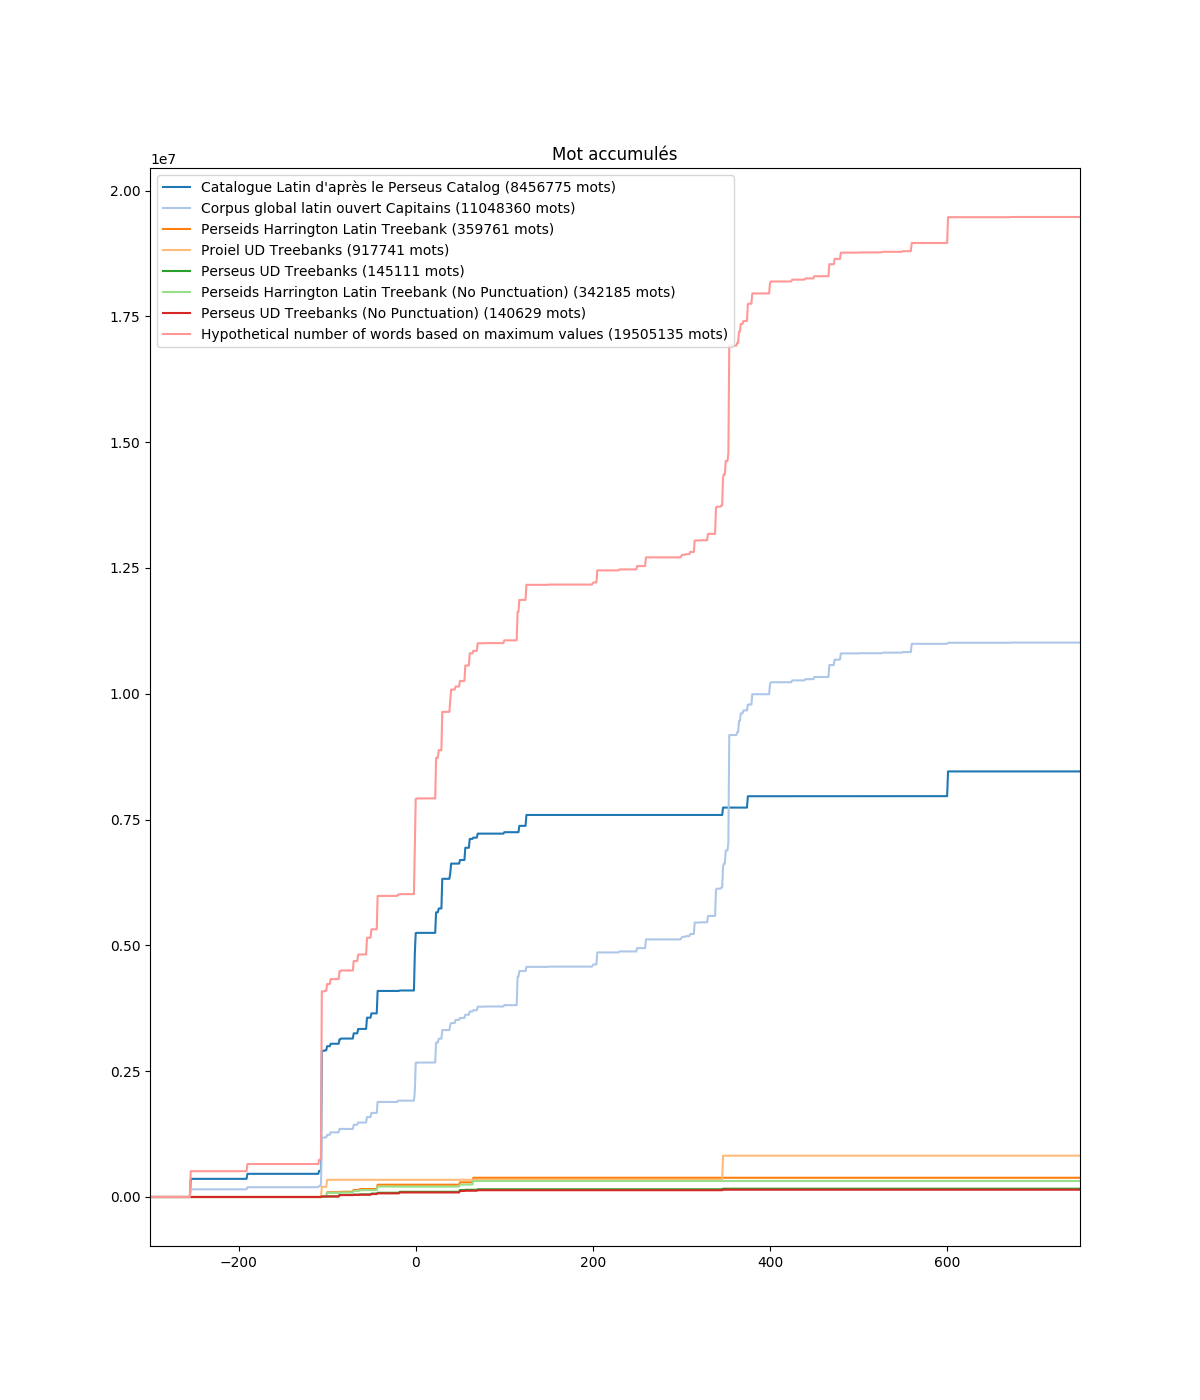
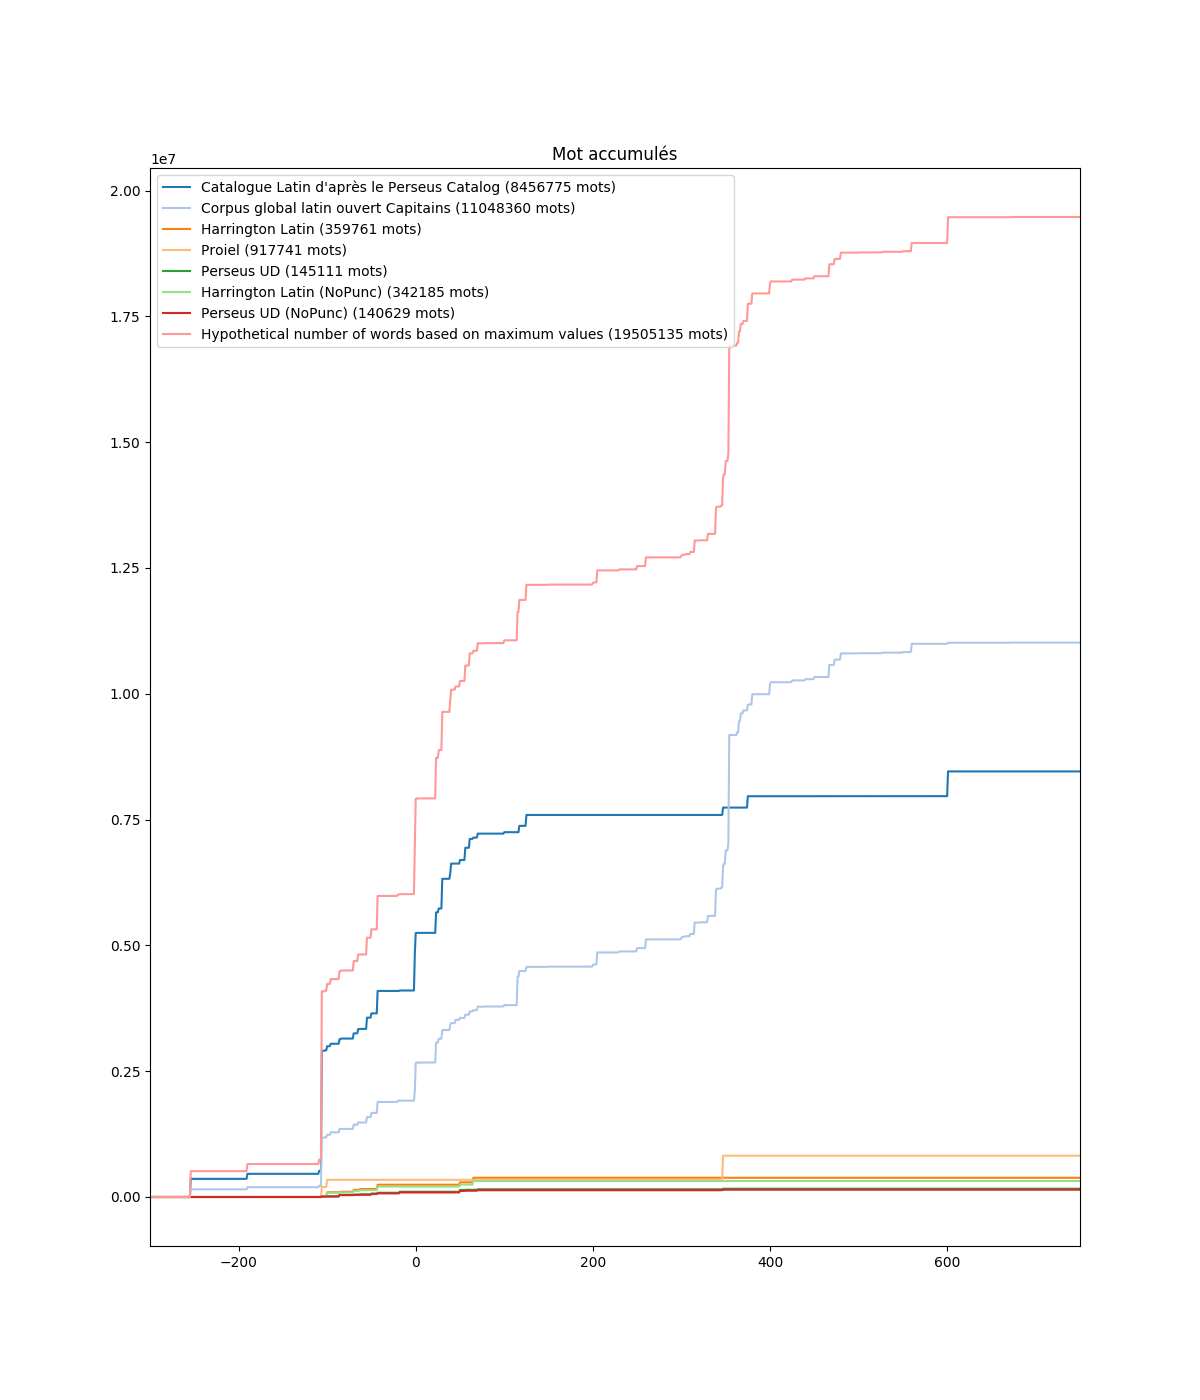
Added distributions plots

Changed region(s): [[0.185, 0.1536, 0.4625, 0.2457], [0.4933, 0.1843, 0.555, 0.215]]

diff --git a/analysis/general_analysis/treebank_analysis.py b/analysis/general_analysis/treebank_analysis.py
@@ -2,7 +2,7 @@ from .corpus_analysis import time_analysis
 import collections
 from helpers.reader.curated import get_graph, get_texts, get_text_length_dict
 from helpers.metadata import wordcounts
-from helpers.treebanks import Corpora, flatten_doc_dict, Filtered_Corpora, doc_token_dict_sum
+from helpers.treebanks import Corpora, flatten_doc_dict, Filtered_Corpora, doc_token_dict_sum, distribution
 import matplotlib.pyplot as plt
 import copy
 import pandas
@@ -17,9 +17,11 @@ def draw_tokens_representation(
         series, fname,
         title="Mots écrits par auteur vivant à une période donnée", template="{corpus} ({words} mots)",
         kind="line",
-        colors_index_offset=0):
+        colors_index_offset=0, plot_kwargs=None, base_fig=None, dimension=(12, 14)):
 
     """ Draw the series in one fig"""
+    if plot_kwargs is None:
+        plot_kwargs = {}
 
     # These are the "Tableau 20" colors as RGB.
     COLORS = [(31, 119, 180), (174, 199, 232), (255, 127, 14), (255, 187, 120),
@@ -33,7 +35,12 @@ def draw_tokens_representation(
         r, g, b = COLORS[i]
         COLORS[i] = r / 255., g / 255., b / 255.
 
-    fig = plt.figure(figsize=(12, 14))
+    fig = base_fig
+    if not fig:
+        if dimension:
+            fig = plt.figure(figsize=dimension)
+        else:
+            fig = plt.figure()
 
     index = 0
     for name, totalWord, serie in series:
@@ -42,7 +49,8 @@ def draw_tokens_representation(
             title=title,
             legend=True,
             label=template.format(corpus=name, words=totalWord),
-            color=COLORS[index]
+            color=COLORS[index],
+            **plot_kwargs
         )
         index += 1
         fig.add_axes(ax)
@@ -51,6 +59,7 @@ def draw_tokens_representation(
     fig.legend(loc='upper center', bbox_to_anchor=(0.5, -0.05), fancybox=True, shadow=True, ncol=5)
 
     plt.savefig(fname)
+    return fig
 
 
 def build_series(graph, texts_dict, wc):
@@ -61,7 +70,7 @@ def build_series(graph, texts_dict, wc):
     :param wc: Word count dictionaries from Perseus catalog (TextId : [WordCount])
     """
 
-    data = [
+    corpus_data = [
         _Serie(
             "Catalogue Latin d'après le Perseus Catalog",
             len(wc),
@@ -76,8 +85,6 @@ def build_series(graph, texts_dict, wc):
         )
     ]
 
-    InitialDataOffset = 2
-
     hypo_dict = copy.deepcopy(wc)
     hypo_dict.update(texts_dict)
 
@@ -88,6 +95,7 @@ def build_series(graph, texts_dict, wc):
         *time_analysis(graph, hypo_dict, draw=False, print_missing=False)
     )
 
+    data = []
     for corpus in Corpora:
         corpus.parse()
         data.append(_Serie(
@@ -102,14 +110,14 @@ def build_series(graph, texts_dict, wc):
 
         cwc = doc_token_dict_sum(corpus.words)
 
-        if cwc != data[index+InitialDataOffset].word_count:
+        if cwc != data[index].word_count:
             filtered.append(_Serie(
                 corpus.name,
                 len(corpus.words),
                 cwc,
                 *time_analysis(graph, corpus.tokens_by_document, False, False))
             )
-    return data, filtered, hypothetical
+    return corpus_data, data, filtered, hypothetical
 
 
 def draw_series_graph(data, hypothetical):
@@ -170,6 +178,51 @@ def draw_corpus_POS():
         fig.savefig("results/analysis/treebank_analysis/treebank_"+corpus.name+"_POS.png")
 
 
+def draw_zipf():
+    """ Draw zipf distributions """
+    forme_fig = draw_tokens_representation([
+        (
+            corpus.name,
+            corpus.diversity["Formes Uniques"],
+            pandas.Series(distribution(corpus.occurence_count[0]))
+        )
+        for corpus in Filtered_Corpora
+    ], fname="results/analysis/treebank_analysis/treebank_distributions.png",
+        template="{corpus} ({words} formes uniques)",
+        title="Distributions des formes",
+        colors_index_offset=2,
+        plot_kwargs={"loglog": True}, dimension=None
+    )
+
+    draw_tokens_representation([
+        (
+            corpus.name,
+            corpus.diversity["Lemmas Uniques"],
+            pandas.Series(distribution(corpus.occurence_count[1]))
+        )
+        for corpus in Filtered_Corpora
+    ], fname="results/analysis/treebank_analysis/treebank_distributions_lemmes_formes.png",
+        template="{corpus} ({words} lemmes uniques)",
+        title="Distributions des lemmes et formes",
+        colors_index_offset=2,
+        plot_kwargs={"loglog": True, "linestyle": "dashed"}, base_fig=forme_fig, dimension=None
+    )
+
+    draw_tokens_representation([
+        (
+            corpus.name,
+            corpus.diversity["Lemmas Uniques"],
+            pandas.Series(distribution(corpus.occurence_count[1]))
+        )
+        for corpus in Filtered_Corpora
+    ], fname="results/analysis/treebank_analysis/treebank_distributions_lemmes.png",
+        template="{corpus} ({words} lemmes uniques)",
+        title="Distributions des lemmes",
+        colors_index_offset=2,
+        plot_kwargs={"loglog": True}, dimension=None
+    )
+
+
 def run(corpora):
     """ Run a generic analysis"""
     graph = get_graph()
@@ -184,15 +237,20 @@ def run(corpora):
     wc = wordcounts.build()
 
     # Build Pandas Series
-    data, filtered_data, hypothetical = build_series(graph, texts_dict, wc)
+    corpus_data, data, filtered_data, hypothetical = build_series(graph, texts_dict, wc)
 
     # Draw graph representation of series
-    draw_series_graph(data+filtered_data, hypothetical)
+    draw_series_graph(corpus_data+data+filtered_data, hypothetical)
 
     # Drawing graphical analysis of each corpus
     draw_corpus_POS()
 
+    # Draw ZIPF distribution analysis
+    draw_zipf()
+
+
     template = "| {:<64} | {:<10} |\n"
+
     for corpus in corpora:
         with open("results/analysis/treebank_analysis/treebank_"+corpus.name+".md", "w") as f:
             f.write(template.format('Documents', 'Tokens'))

diff --git a/helpers/treebanks/__init__.py b/helpers/treebanks/__init__.py
@@ -1,41 +1,41 @@
 from .xml import PerseidsXMLCorpus
 from .conllu import ConlluTreebank
-from .utils import flatten_doc_dict, doc_token_dict_sum
+from .utils import flatten_doc_dict, doc_token_dict_sum, distribution
 
 
 Harrington = PerseidsXMLCorpus(
     "data/raw/treebanks_xml/perseids-project_harrington_trees/harrington_trees-*/CITE_TREEBANK_XML/perseus/lattb/**/*.xml",
-    name="Perseids Harrington Latin Treebank"
+    name="Harrington Latin"
 )
 
 
 Harrington_filtered = PerseidsXMLCorpus(
     "data/raw/treebanks_xml/perseids-project_harrington_trees/harrington_trees-*/CITE_TREEBANK_XML/perseus/lattb/**/*.xml",
-    name="Perseids Harrington Latin Treebank (No Punctuation)",
+    name="Harrington Latin (NoPunc)",
     remove="^\W+$"
 )
 
 
 Proiel = ConlluTreebank(
     "data/raw/treebanks_conllu/UniversalDependencies_UD_Latin-PROIEL/UD_Latin-PROIEL-*/*.conllu",
-    name="Proiel UD Treebanks"
+    name="Proiel"
 )
 
 
 Proiel_filtered = ConlluTreebank(
     "data/raw/treebanks_conllu/UniversalDependencies_UD_Latin-PROIEL/UD_Latin-PROIEL-*/*.conllu",
-    name="Proiel UD Treebanks (No Punctuation)",
+    name="Proiel (NoPunc)",
     remove="^\W+$"
 )
 
 
 Perseus = ConlluTreebank(
     "data/raw/treebanks_conllu/UniversalDependencies_UD_Latin-Perseus/UD_Latin-Perseus-*/*.conllu",
-    name="Perseus UD Treebanks"
+    name="Perseus UD"
 )
 Perseus_filtered = ConlluTreebank(
     "data/raw/treebanks_conllu/UniversalDependencies_UD_Latin-Perseus/UD_Latin-Perseus-*/*.conllu",
-    name="Perseus UD Treebanks (No Punctuation)",
+    name="Perseus UD (NoPunc)",
     remove="^\W+$"
 )
 

diff --git a/helpers/treebanks/base.py b/helpers/treebanks/base.py
@@ -95,6 +95,18 @@ class TreebankCorpus:
         }
 
     @property
+    def occurence_count(self):
+        """ Return an occurence count of forms and lemmas
+
+        :return: Forms distributions, Lemma distributions
+        """
+        return collections.Counter(
+            [word for doc in self.words.values() for word in doc]
+        ), collections.Counter(
+            [word for doc in self.lemmas.values() for word in doc]
+        )
+
+    @property
     def documents_diversity(self):
         return {
             # Statistiques par document

diff --git a/helpers/treebanks/utils.py b/helpers/treebanks/utils.py
@@ -27,3 +27,13 @@ def doc_token_dict_sum(data):
     ])
 
 
+def distribution(occurence):
+    """ Reverse a distribution dict {lemma: occurence count} in a {occurence_count: amount of lemma with occ count}
+
+    :param distribution_dict:
+    :return:
+    """
+    x = collections.Counter()
+    for key, counter in occurence.items():
+        x[counter] += 1
+    return x

diff --git a/results/analysis/treebank_analysis/treebank_Harrington Latin.md b/results/analysis/treebank_analysis/treebank_Harrington Latin.md
@@ -1,13 +1,13 @@
 | Documents                                                        | Tokens     |
 | --                                                               | --         |
-| urn:cts:latinLit:phi1221.phi007.perseus-lat2                     | 2970       |
-| urn:cts:latinLit:phi0690.phi003.perseus-lat2                     | 7307       |
-| urn:cts:latinLit:phi0472.phi001.perseus-lat2                     | 2137       |
 | urn:cts:latinLit:phi0474.phi013.perseus-lat2                     | 1241       |
+| urn:cts:latinLit:phi0690.phi003.perseus-lat2                     | 7307       |
+| urn:cts:latinLit:phi0959.phi001.perseus-lat2                     | 3897       |
+| urn:cts:latinLit:phi0472.phi001.perseus-lat2                     | 2137       |
+| urn:cts:latinLit:phi1276.phi001.perseus-lat2                     | 17265      |
+| urn:cts:latinLit:phi0448.phi001.perseus-lat2                     | 15017      |
+| urn:cts:latinLit:phi0660.phi003.perseus-lat2                     | 313        |
 | urn:cts:latinLit:phi0972.phi001.perseus-lat2                     | 9190       |
 | urn:cts:latinLit:phi0959.phi006.perseus-lat2                     | 13018      |
-| urn:cts:latinLit:phi1276.phi001.perseus-lat2                     | 17265      |
-| urn:cts:latinLit:phi0660.phi003.perseus-lat2                     | 313        |
-| urn:cts:latinLit:phi0959.phi001.perseus-lat2                     | 3897       |
+| urn:cts:latinLit:phi1221.phi007.perseus-lat2                     | 2970       |
 | urn:cts:latinLit:phi0474.phi024.perseus-lat2                     | 1756       |
-| urn:cts:latinLit:phi0448.phi001.perseus-lat2                     | 15017      |

diff --git a/results/analysis/treebank_analysis/treebank_Perseus UD.md b/results/analysis/treebank_analysis/treebank_Perseus UD.md
@@ -1,14 +1,14 @@
 | Documents                                                        | Tokens     |
 | --                                                               | --         |
 | urn:cts:latinLit:phi0690.phi003.perseus-lat2                     | 776        |
-| urn:cts:latinLit:phi1351.phi005.perseus-lat2                     | 866        |
 | urn:cts:latinLit:phi0474.phi013.perseus-lat2                     | 1897       |
+| urn:cts:latinLit:phi0448.phi001.perseus-lat2                     | 352        |
+| urn:cts:greekLit:tlg0031.tlg027.perseus-lat2                     | 2001       |
+| urn:cts:latinLit:phi0631.phi001.perseus-lat2                     | 4999       |
+| urn:cts:latinLit:phi0972.phi001.perseus-lat2                     | 5949       |
+| urn:cts:latinLit:phi1351.phi005.perseus-lat2                     | 866        |
 | urn:cts:latinLit:phi0975.phi001.perseus-lat2                     | 4116       |
+| urn:cts:latinLit:phi0620.phi001.perseus-lat2                     | 2776       |
 | urn:cts:latinLit:phi1221.phi007.perseus-lat2                     | 708        |
 | urn:cts:latinLit:phi0959.phi006.perseus-lat2                     | 2652       |
-| urn:cts:latinLit:phi0448.phi001.perseus-lat2                     | 352        |
 | urn:cts:latinLit:phi1348.abo012.perseus-lat2                     | 2046       |
-| urn:cts:latinLit:phi0620.phi001.perseus-lat2                     | 2776       |
-| urn:cts:greekLit:tlg0031.tlg027.perseus-lat2                     | 2001       |
-| urn:cts:latinLit:phi0972.phi001.perseus-lat2                     | 5949       |
-| urn:cts:latinLit:phi0631.phi001.perseus-lat2                     | 4999       |

diff --git a/results/analysis/treebank_analysis/treebank_Proiel.md b/results/analysis/treebank_analysis/treebank_Proiel.md
@@ -1,5 +1,5 @@
 | Documents                                                        | Tokens     |
 | --                                                               | --         |
-| urn:cts:greekLit:tlg0031.tlg001.perseus-lat2                     | 103703     |
 | urn:cts:latinLit:phi0448.phi001.perseus-lat2                     | 27402      |
 | urn:cts:latinLit:phi0474.phi057.perseus-lat2                     | 40454      |
+| urn:cts:greekLit:tlg0031.tlg001.perseus-lat2                     | 103703     |
